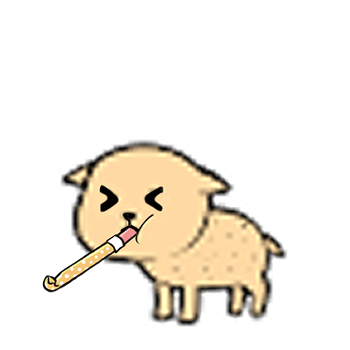
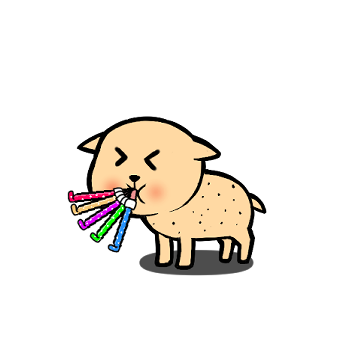
game pass full screen effect

Changed region(s): [[0.1143, 0.3143, 0.8286, 0.9429], [0.5143, 0.5714, 0.5429, 0.6]]

diff --git a/style/main.scss b/style/main.scss
@@ -18,7 +18,7 @@ $tile-color: #eee4da;
 $tile-gold-color: #edc22e;
 $tile-gold-glow-color: lighten($tile-gold-color, 15%);
 
-$game-container-margin-top: 40px;
+$game-container-margin-top: 23px;
 $game-container-background: #bbada0;
 
 $transition-speed: 100ms;
@@ -508,15 +508,18 @@ hr {
   float: right;
 
   background: none;
-  margin-top: 55px;
-  margin-right: 38px;
-  width: 196px;
-  height: 82px;
+  margin-top: 61px;
+  margin-right: 42px;
+  width: 210px;
+  height: 100px;
+
+  //background: url("img/respawn_button.png");
+  //background-size: cover;
 }
 
 .restart-button:hover {
   background: url("img/respawn_button.png");
-  background-size: contain;
+  background-size: cover;
 
   animation: pulse 1s infinite;
   box-shadow: 0 0 0 2em transparent;
@@ -608,15 +611,58 @@ hr {
 
 .container .birthday {
   height: 100%;
-  width: 100%;
-  background: url("img/red and white rays.gif") center;
-  background-size: auto 100%;
-  opacity: 0.5;
+  width: 640px;
   z-index: 999;
   position: absolute;
-  left: 0;
-  top: 0;
   display: none;
+}
+
+.birthday-bg {
+  height: 100%;
+  width: 100%;
+  background: url("img/redwhite.gif") no-repeat center;
+  background-size: auto 100%;
+  opacity: 0.5;
+  position: absolute;
+}
+
+#fin1, #fin2, #fin3, #fin4, #fin5, #fin6 {
+  position: absolute;
+  width: 25%;
+  height: auto;
+}
+
+#fin1 {
+  width: 100%;
+  height: auto;
+  margin-top: 150px;
+}
+
+#fin2 {
+  left: 50px;
+  top: 170px;
+  transform: scaleX(-1);
+}
+
+#fin3 {
+  left: 470px;
+  top: 730px;
+}
+
+#fin4 {
+  left: 50px;
+  top: 730px;
+  transform: scaleX(-1);
+}
+
+#fin5 {
+  left: 470px;
+  top: 170px;
+}
+
+#fin6 {
+  left: 256px;
+  top: 100px;
 }
 
 .barbecue{

diff --git a/style/main.css b/style/main.css
@@ -213,7 +213,7 @@ hr {
   }
 }
 .game-container {
-  margin-top: 40px;
+  margin-top: 23px;
   position: relative;
   padding: 40px 60px;
   cursor: default;
@@ -699,15 +699,15 @@ hr {
   text-align: center;
   float: right;
   background: none;
-  margin-top: 55px;
-  margin-right: 38px;
-  width: 196px;
-  height: 82px;
+  margin-top: 61px;
+  margin-right: 42px;
+  width: 210px;
+  height: 100px;
 }
 
 .restart-button:hover {
   background: url("img/respawn_button.png");
-  background-size: contain;
+  background-size: cover;
   animation: pulse 1s infinite;
   box-shadow: 0 0 0 2em transparent;
 }
@@ -723,15 +723,58 @@ hr {
 
 .container .birthday {
   height: 100%;
-  width: 100%;
-  background: url("img/red and white rays.gif") center;
-  background-size: auto 100%;
-  opacity: 0.5;
+  width: 640px;
   z-index: 999;
   position: absolute;
-  left: 0;
-  top: 0;
   display: none;
+}
+
+.birthday-bg {
+  height: 100%;
+  width: 100%;
+  background: url("img/redwhite.gif") no-repeat center;
+  background-size: auto 100%;
+  opacity: 0.5;
+  position: absolute;
+}
+
+#fin1, #fin2, #fin3, #fin4, #fin5, #fin6 {
+  position: absolute;
+  width: 25%;
+  height: auto;
+}
+
+#fin1 {
+  width: 100%;
+  height: auto;
+  margin-top: 150px;
+}
+
+#fin2 {
+  left: 50px;
+  top: 170px;
+  transform: scaleX(-1);
+}
+
+#fin3 {
+  left: 470px;
+  top: 730px;
+}
+
+#fin4 {
+  left: 50px;
+  top: 730px;
+  transform: scaleX(-1);
+}
+
+#fin5 {
+  left: 470px;
+  top: 170px;
+}
+
+#fin6 {
+  left: 256px;
+  top: 100px;
 }
 
 .barbecue {

diff --git a/js/html_actuator.js b/js/html_actuator.js
@@ -4,6 +4,8 @@ function HTMLActuator() {
   this.bestContainer    = document.querySelector(".best-container");
   this.messageContainer = document.querySelector(".game-message");
 
+  this.birthday = document.querySelector('.birthday');
+
   this.score = 0;
 }
 
@@ -133,12 +135,17 @@ HTMLActuator.prototype.message = function (won) {
   var type    = won ? "game-won" : "game-over";
   var message = won ? "You win!" : "Game over!";
 
-  this.messageContainer.classList.add(type);
-  this.messageContainer.getElementsByTagName("p")[0].textContent = message;
+  if (won) {
+    this.birthday.style.display = 'block';
+  } else {
+    this.messageContainer.classList.add(type);
+    this.messageContainer.getElementsByTagName("p")[0].textContent = message;
+  }
 };
 
 HTMLActuator.prototype.clearMessage = function () {
   // IE only takes one value to remove at a time.
   this.messageContainer.classList.remove("game-won");
   this.messageContainer.classList.remove("game-over");
+  this.birthday.style.display = 'none';
 };

diff --git a/index.html b/index.html
@@ -18,7 +18,15 @@
 </head>
 <body>
   <div class="container">
-    <div class="birthday"></div>
+    <div class="birthday">
+      <div class="birthday-bg"></div>
+      <img id="fin1" src="style/img/WTM_6th_birthday_game_clear_sticker.png" />
+      <img id="fin2" src="style/img/Watamate2.gif" />
+      <img id="fin3" src="style/img/Watamate4.gif" />
+      <img id="fin4" src="style/img/Watamate6.gif" />
+      <img id="fin5" src="style/img/Watamate8.gif" />
+      <img id="fin6" src="style/img/Watamate10.gif" />
+    </div>
     <div class="heading">
       <h1 class="title"></h1>
       <div class="scores-container">
